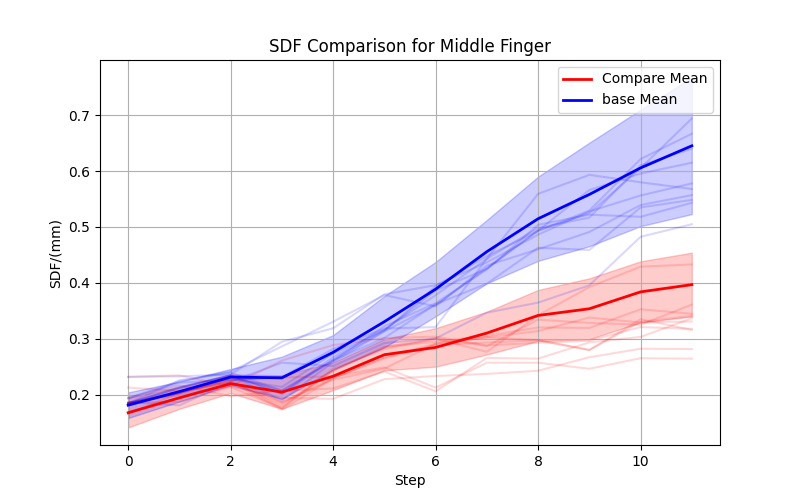
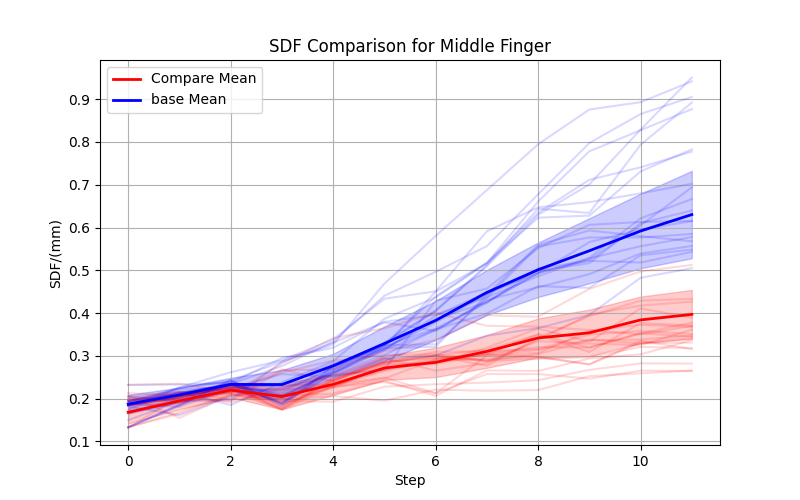
fix: 修正接触距离打印及删除无效代码 fix: 更新实验名称及调整数据处理 fix: 修改绘图数据范围与颜色 fix: 优化接触约束处理逻辑与数据记录 fix: 修正目标姿态设置及数据保存路径 fix: 更新Pose处理函数并改进数据记录 fix: 删除无效的梯度下降实现 fix: 更新接触约束处理逻辑与数据记录 fix: 调整视频生成文件夹路径 fix: 修正Pose处理逻辑与数据记录 fix: 更新接触约束处理逻辑与数据记录 fix: 删除无效的梯度下降实现 fix: 更新接触约束处理逻辑与数据记录 fix: 修正目标姿态设置及数据保存路径 fix: 更新Pose处理函数并改进数据记录

diff --git a/data_vis.py b/data_vis.py
@@ -11,7 +11,7 @@ compare_dir = './data/experiments/allegro_screwdriver_diff_init_sdf_guided_2./cs
 save_dir = './data/experiments/'
 
 # trial 和 stage 的范围
-num_trials = 10
+num_trials = 20
 num_stages = 12
 
 
@@ -112,9 +112,9 @@ plt.bar(range(1, num_total_stages + 1), yaw_difference, label='yaw_difference', 
 plt.axhline(y=0, color='black', linestyle='--', linewidth=1)
 plt.xlabel('Stage')
 plt.ylabel('Yaw Difference (Compare - Base) (rads)')
-plt.title('Yaw Difference Per Trail (Compare - Base)')
+plt.title('Yaw Difference Per Trial (Compare - Base)')
 plt.grid(True)
-plt.savefig(f'{save_dir}/yaw_difference_each_trail.png')
+plt.savefig(f'{save_dir}/yaw_difference_each_trial.png')
 plt.show()
 plt.close()
 
